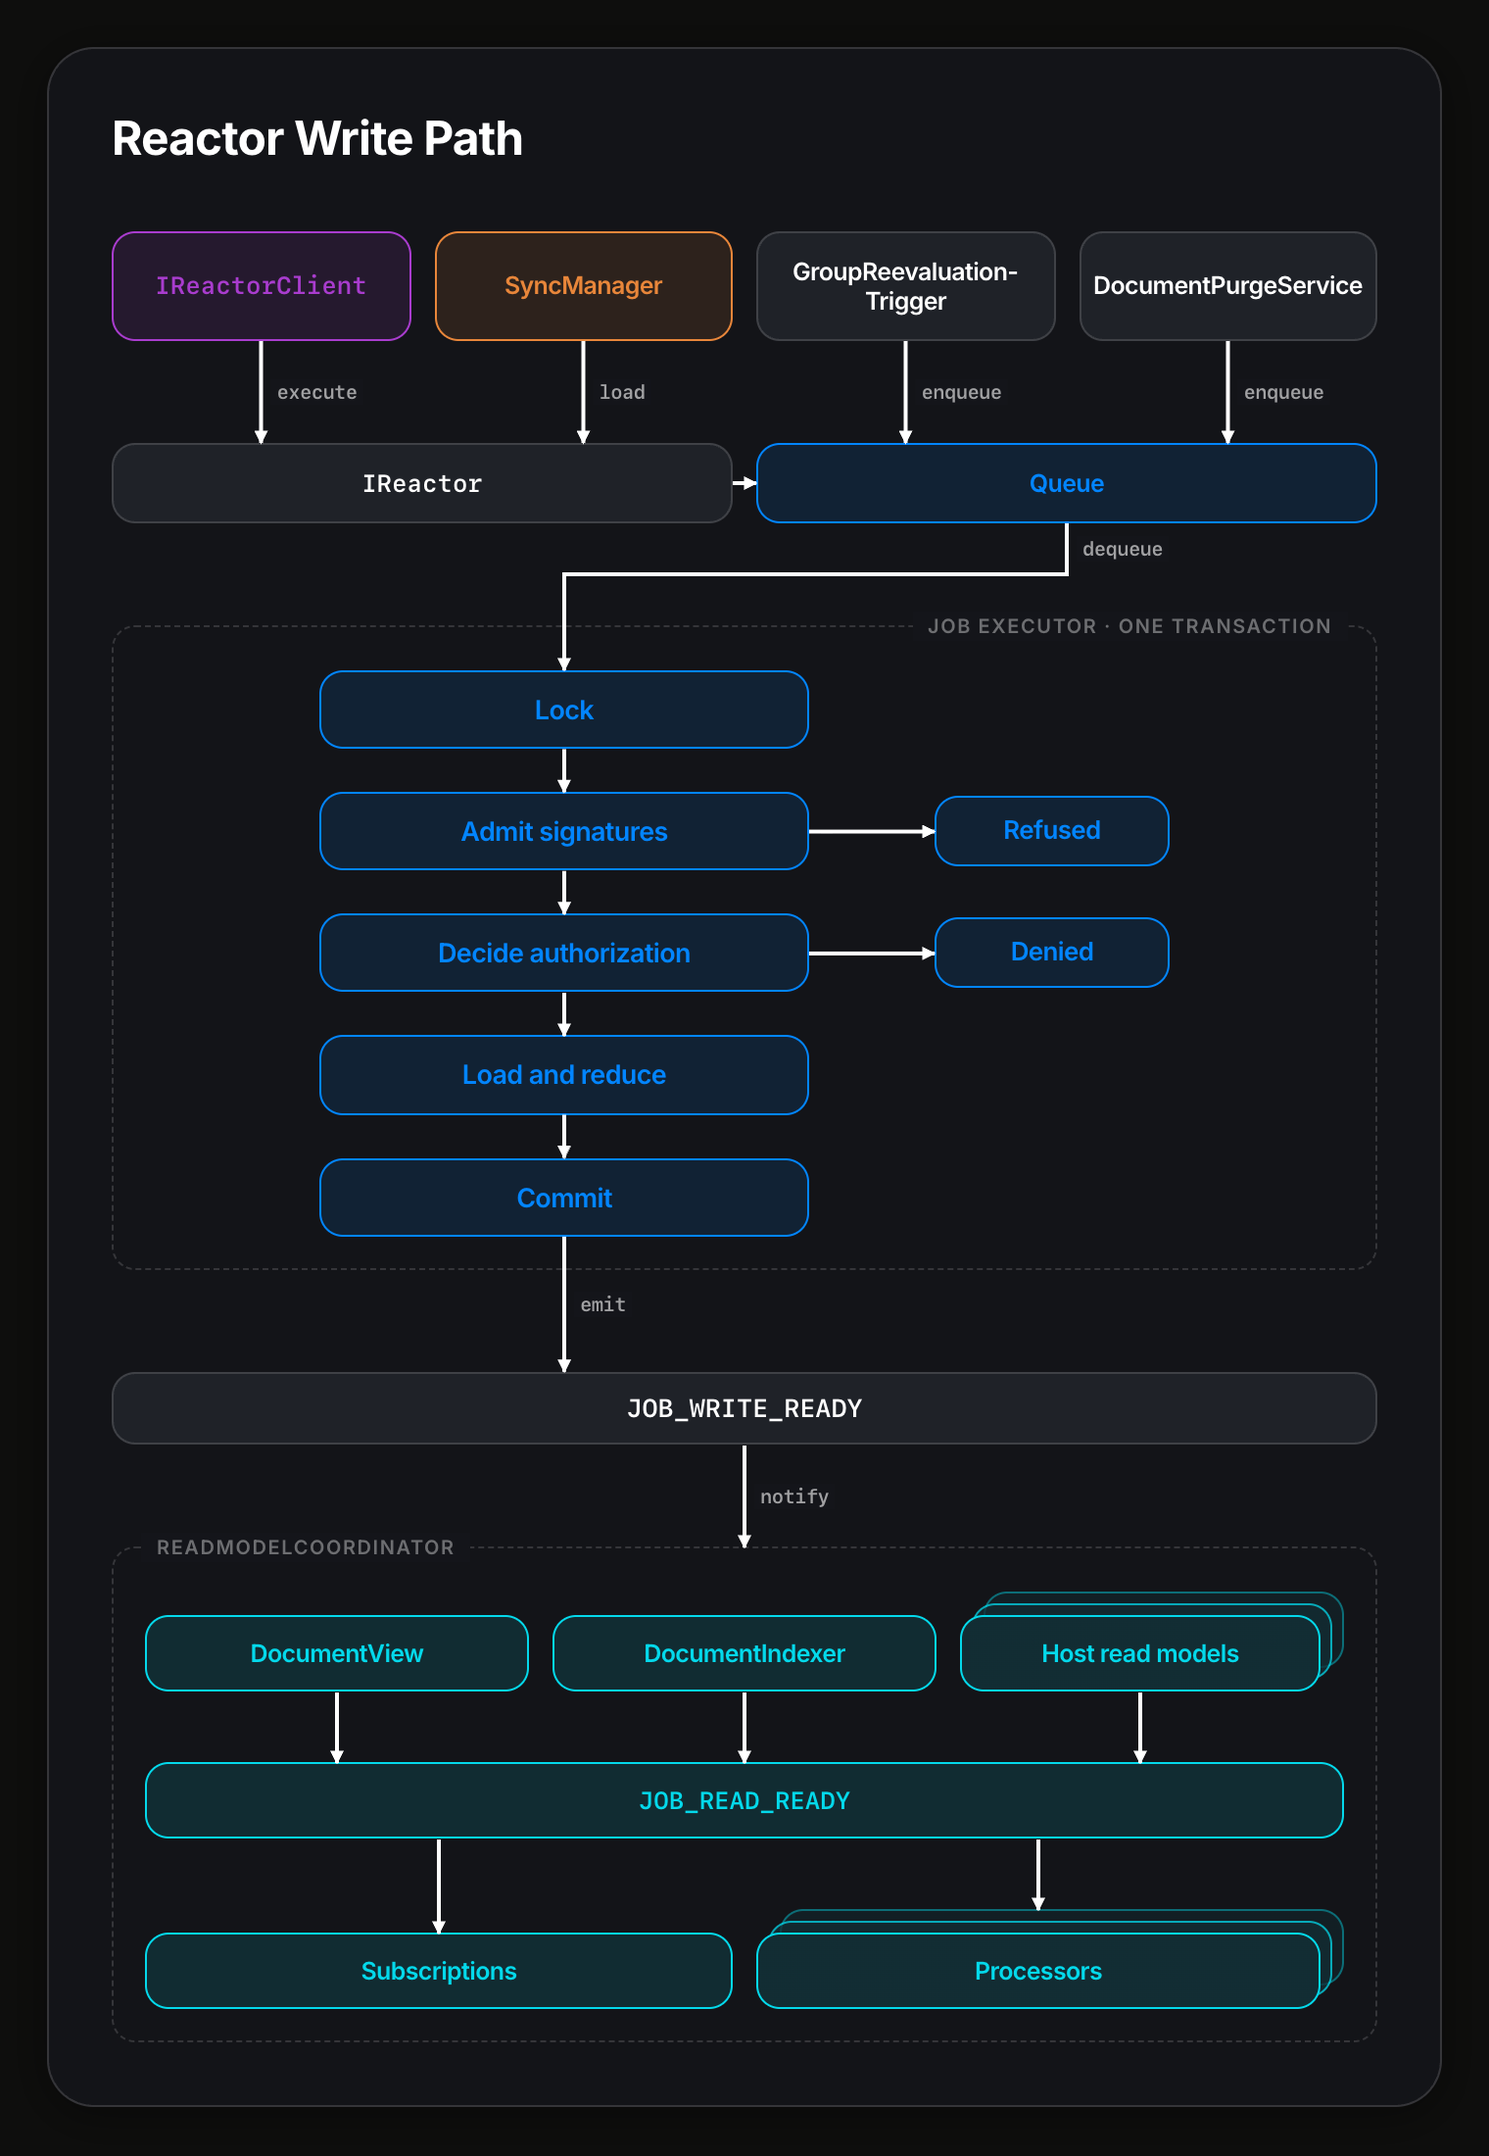
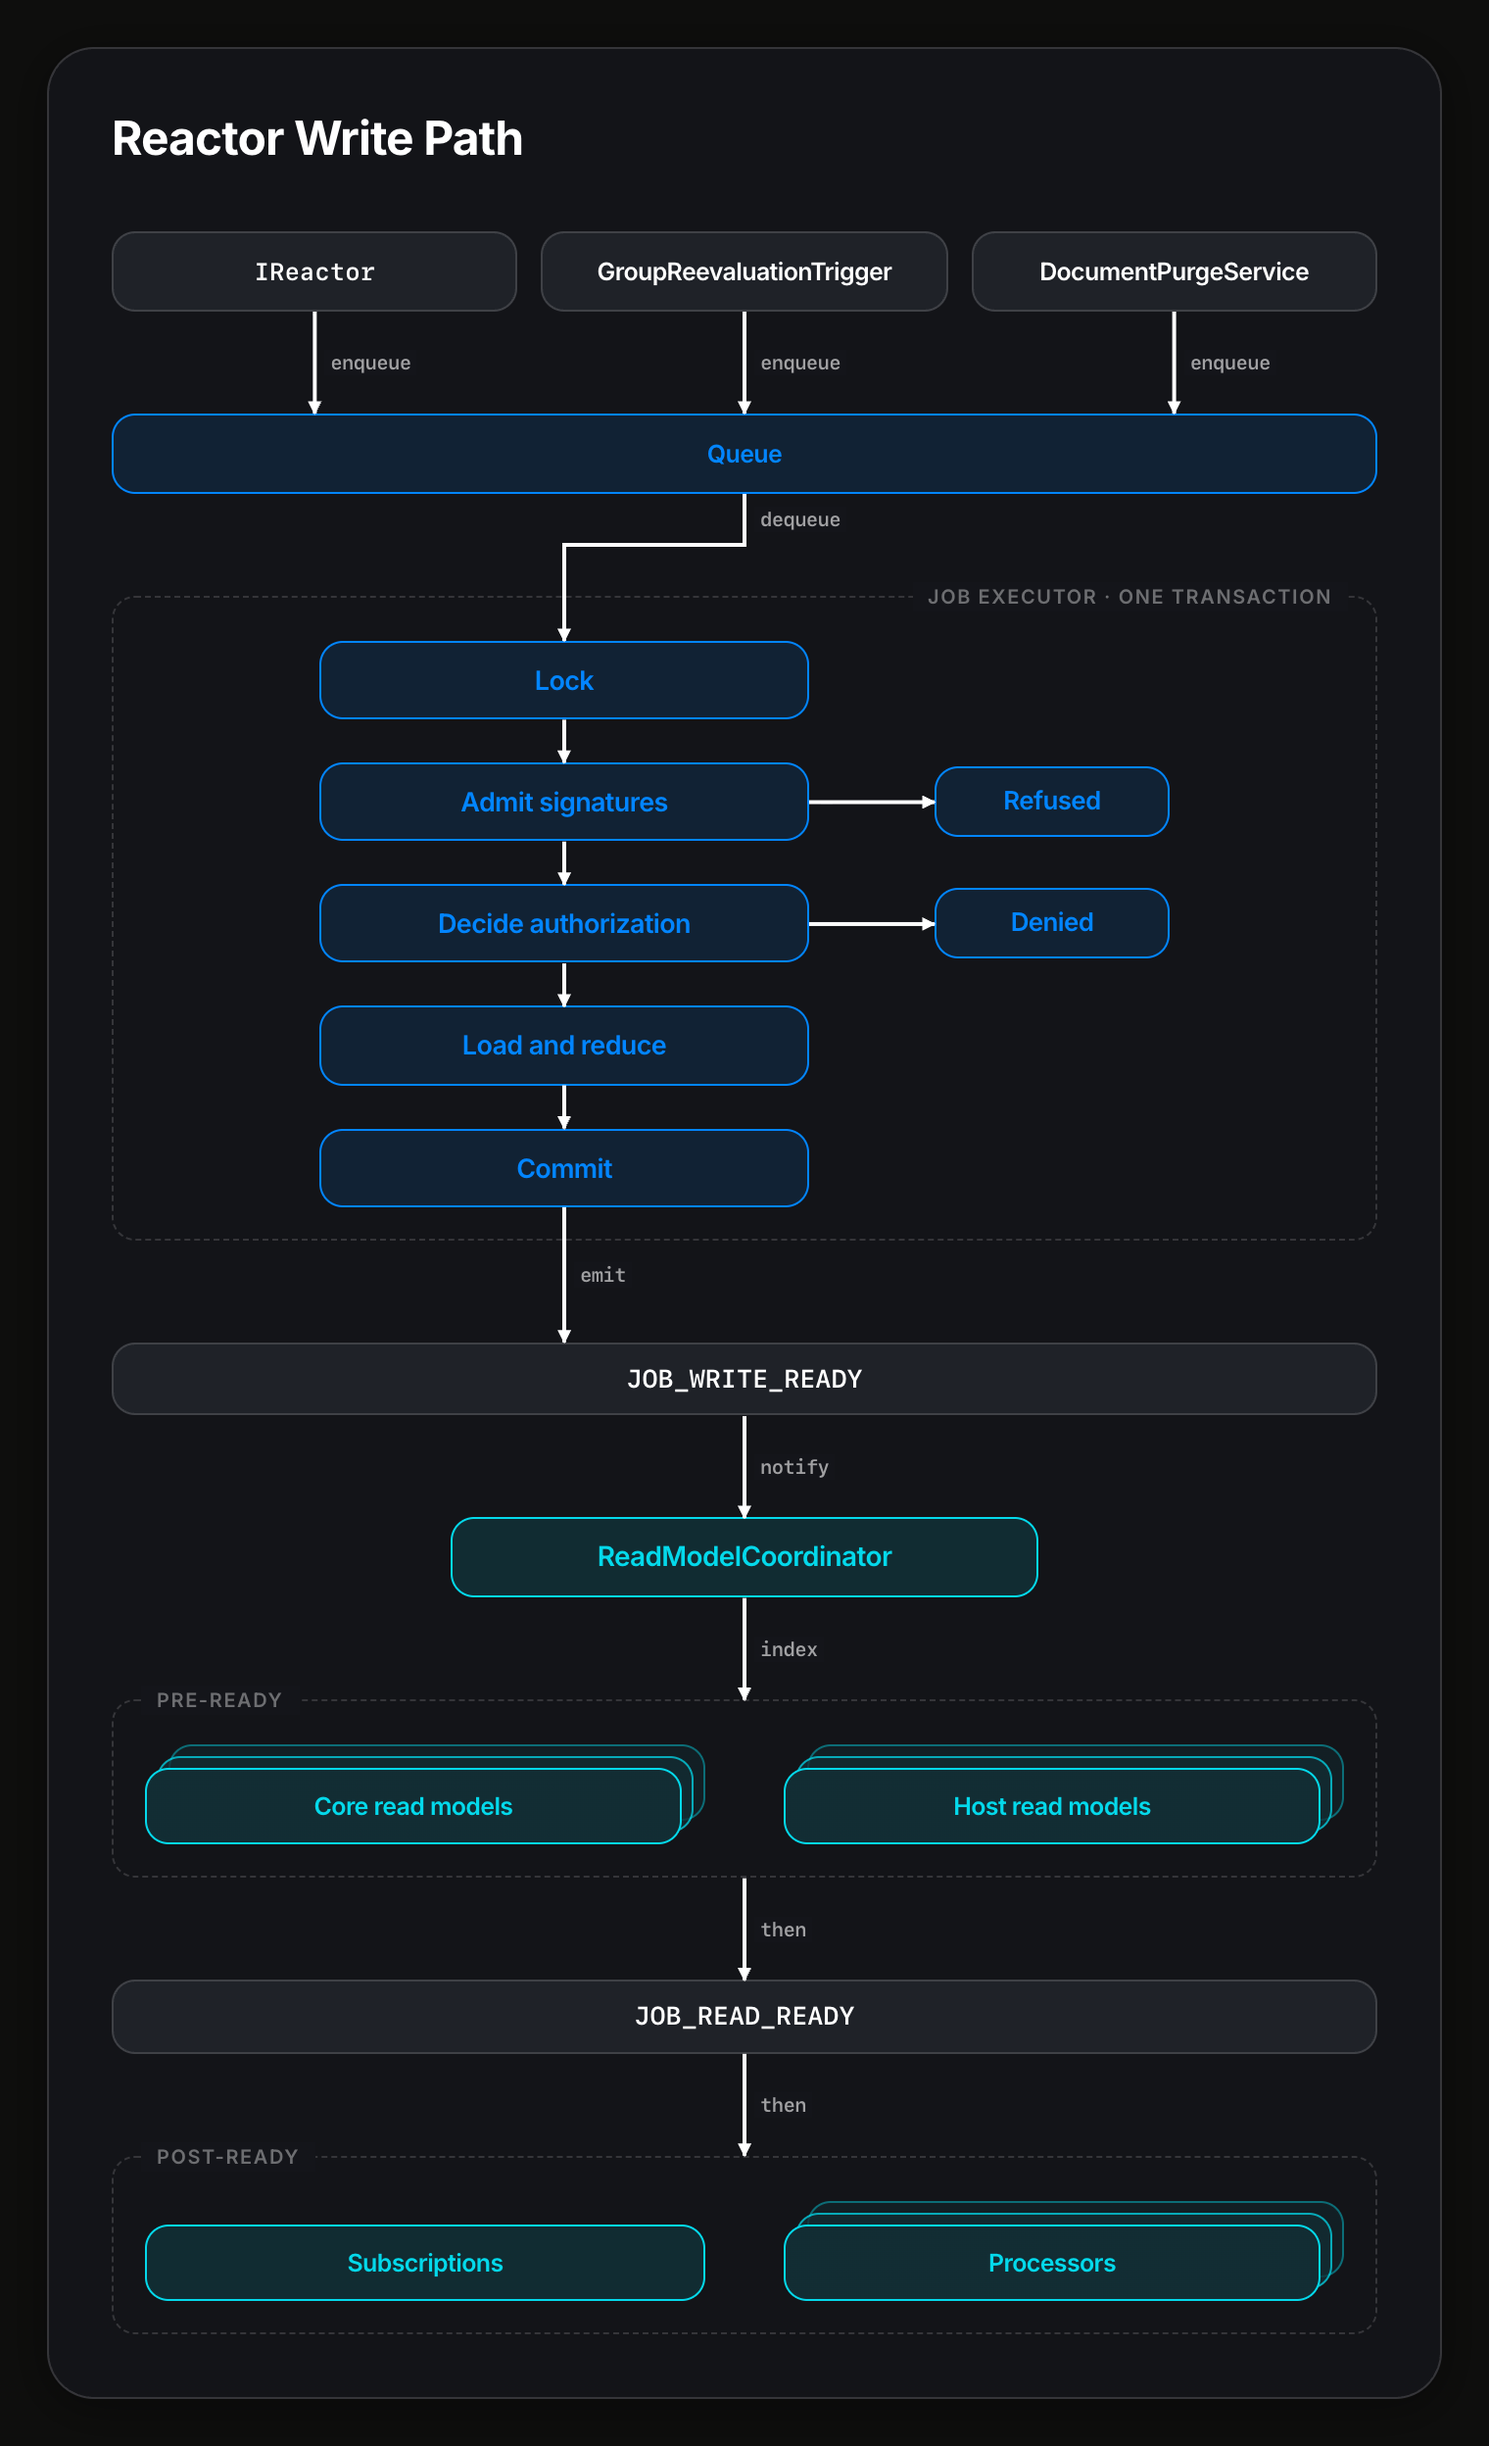
reactor write path: IReactor on top, serial read stages
Drop the client and SyncManager producers, which sit outside this
view; IReactor, GroupReevaluationTrigger and DocumentPurgeService all
enqueue into Queue below them. The read half is now one serial chain:
ReadModelCoordinator, the pre-ready stage (core and host read models),
a neutral JOB_READ_READY, then the post-ready stage. Models within a
stage carry no edges between them, since indexStage runs them together
with Promise.allSettled.

Changed region(s): [[0.0618, 0.0309, 0.9276, 0.7109], [0.0928, 0.7109, 0.9276, 0.9582]]

diff --git a/pages/reactor-write-path.html b/pages/reactor-write-path.html
@@ -141,13 +141,13 @@
     }
     .entry {
       display: grid;
-      grid-template-columns: repeat(4, 1fr);
+      grid-template-columns: repeat(3, 1fr);
       column-gap: 12px;
       row-gap: 52px;
     }
     .entry .box { padding: 12px 6px; }
     .entry .box-title { font-size: 12.5px; }
-    .entry .wide { grid-column: span 2; }
+    .entry .wide { grid-column: 1 / -1; }
 
     .exec {
       display: grid;
@@ -163,18 +163,11 @@
     .outcome .box-title { font-size: 13px; }
     .event { padding: 10px 14px; }
 
-    .readside {
-      display: grid;
-      grid-template-columns: repeat(6, 1fr);
-      column-gap: 12px;
-      row-gap: 36px;
-      align-items: end;
-    }
-    .readside .box { padding: 11px 6px; }
-    .readside .box-title { font-size: 12.5px; }
-    .readside .s2 { grid-column: span 2; }
-    .readside .s3 { grid-column: span 3; }
-    .readside .full { grid-column: 1 / -1; }
+    .stage { padding: 22px 16px 16px; }
+    .stage .row { display: grid; grid-template-columns: 1fr 1fr; column-gap: 40px; align-items: end; }
+    .stage .box { padding: 11px 6px; }
+    .stage .box-title { font-size: 12.5px; }
+    .coord { align-self: center; width: 300px; padding: 11px 14px; }
   </style>
 </head>
 <body>
@@ -182,11 +175,10 @@
     Element → source map (paths relative to packages/reactor/src in the powerhouse monorepo).
     Line numbers as of main a30562aeca. All edges share one colour.
 
-    IReactorClient ............ client/types.ts:264; execute: client/reactor-client.ts:1033 signActions → :1040 this.reactor.execute
-    SyncManager ............... sync/sync-manager.ts:2863 reactor.load, :3064 reactor.loadBatch
     GroupReevaluationTrigger .. core/group-reevaluation-trigger.ts:52; reevaluation job :166, queue.enqueue :182
     DocumentPurgeService ...... admin/document-purge-service.ts:19; purge job :51, queue.enqueue :82
-    IReactor .................. core/types.ts:138; core/reactor.ts:83 (execute :659, load :717); JOB_PENDING :1197; queue.enqueue :710, :773
+    IReactor .................. core/types.ts:138; core/reactor.ts:83 (execute :659, load :717); JOB_PENDING :1197
+      enqueue ................. core/reactor.ts:710, :773 (queue.enqueue). Its callers (the client, SyncManager) sit outside this view
     Queue ..................... queue/queue.ts:22; JOB_AVAILABLE :202; one job per document :81, :280
     dequeue ................... executor/simple-job-executor-manager.ts:88 (on JOB_AVAILABLE), :139 processNextJob
     Job executor (group) ...... executor/execution-scope.ts:78, :94-106 (one transaction); executor/simple-job-executor.ts:415
@@ -201,13 +193,18 @@
                                 :839 operationIndex.commit
     emit ...................... simple-job-executor.ts:446-461 (after commit, JOB_WRITE_READY)
     JOB_WRITE_READY ........... events/types.ts:57-68
-    notify .................... read-models/coordinator.ts:119
-    ReadModelCoordinator ...... read-models/coordinator.ts:96; chain key :353-355; pre-ready :253-254; JOB_READ_READY :272; post-ready :283-284
-      DocumentView ............ read-models/document-view.ts:63
-      DocumentIndexer ......... storage/kysely/document-indexer.ts:66
+    notify .................... read-models/coordinator.ts:119 (JOB_WRITE_READY subscription)
+    ReadModelCoordinator ...... read-models/coordinator.ts:96; one serial chain per document/scope/branch :353-355
+    index → pre-ready ......... coordinator.ts:252-264 indexStage(preReady)
+      Core read models [stack]  DocumentView (read-models/document-view.ts:63), DocumentIndexer (storage/kysely/document-indexer.ts:66)
       Host read models [stack]  core/reactor-builder.ts:473, :485, :1166-1168 (callerReadModels list)
+    then → JOB_READ_READY ..... coordinator.ts:272, emitted only after the pre-ready stage settles
+    then → post-ready ......... coordinator.ts:282-294 indexStage(postReady), after the emit
       Subscriptions ........... subs/subscription-notification-read-model.ts:20
       Processors [stack] ...... processors/processor-manager.ts:84, :89 (processorsByDrive), :741
+    Stages are serial; models within a stage are not ordered: indexStage runs them with Promise.allSettled
+    (coordinator.ts:73-82). The pre-ready list is [...callerReadModels, documentView, documentIndexer]
+    (reactor-builder.ts:1292-1296), but that order is not an execution order, so no edge joins siblings.
   -->
   <div class="frame">
     <div class="card">
@@ -218,38 +215,44 @@
           <svg class="wires" id="wires"></svg>
 
           <div class="entry">
-            <div class="box accent-purple" id="p-client"><div class="box-title mono">IReactorClient</div></div>
-            <div class="box accent-orange" id="p-sync"><div class="box-title">SyncManager</div></div>
+            <div class="box" id="reactor"><div class="box-title mono">IReactor</div></div>
             <div class="box" id="p-trigger"><div class="box-title">GroupReevaluationTrigger</div></div>
             <div class="box" id="p-purge"><div class="box-title">DocumentPurgeService</div></div>
-            <div class="box wide" id="reactor"><div class="box-title mono">IReactor</div></div>
-            <div class="box wide accent-blue" id="queue"><div class="box-title">Queue</div></div>
+            <div class="box accent-blue wide" id="queue"><div class="box-title">Queue</div></div>
           </div>
 
           <div class="group" id="exec-group">
             <span class="group-label right">Job executor · one transaction</span>
             <div class="exec">
-              <div class="box step accent-blue" id="s1"><div class="box-title">Lock</div></div>
-              <div class="box step accent-blue" id="s2"><div class="box-title">Admit signatures</div></div>
-              <div class="box outcome accent-blue" id="o2"><div class="box-title">Refused</div></div>
-              <div class="box step accent-blue" id="s3"><div class="box-title">Decide authorization</div></div>
-              <div class="box outcome accent-blue" id="o3"><div class="box-title">Denied</div></div>
-              <div class="box step accent-blue" id="s4"><div class="box-title">Load and reduce</div></div>
-              <div class="box step accent-blue" id="s5"><div class="box-title">Commit</div></div>
+              <div class="box accent-blue step" id="s1"><div class="box-title">Lock</div></div>
+              <div class="box accent-blue step" id="s2"><div class="box-title">Admit signatures</div></div>
+              <div class="box accent-blue outcome" id="o2"><div class="box-title">Refused</div></div>
+              <div class="box accent-blue step" id="s3"><div class="box-title">Decide authorization</div></div>
+              <div class="box accent-blue outcome" id="o3"><div class="box-title">Denied</div></div>
+              <div class="box accent-blue step" id="s4"><div class="box-title">Load and reduce</div></div>
+              <div class="box accent-blue step" id="s5"><div class="box-title">Commit</div></div>
             </div>
           </div>
 
           <div class="box event" id="ev-write"><div class="box-title mono">JOB_WRITE_READY</div></div>
 
-          <div class="group" id="read-group">
-            <span class="group-label">ReadModelCoordinator</span>
-            <div class="readside">
-              <div class="box s2 accent-cyan" id="r-view"><div class="box-title">DocumentView</div></div>
-              <div class="box s2 accent-cyan" id="r-index"><div class="box-title">DocumentIndexer</div></div>
-              <div class="fanout s2 accent-cyan" id="r-host"><div class="box accent-cyan"><div class="box-title">Host read models</div></div></div>
-              <div class="box event full accent-cyan" id="ev-read"><div class="box-title mono">JOB_READ_READY</div></div>
-              <div class="box s3 accent-cyan" id="r-subs"><div class="box-title">Subscriptions</div></div>
-              <div class="fanout s3 accent-cyan" id="r-proc"><div class="box accent-cyan"><div class="box-title">Processors</div></div></div>
+          <div class="box accent-cyan coord" id="coordinator"><div class="box-title">ReadModelCoordinator</div></div>
+
+          <div class="group stage" id="pre">
+            <span class="group-label">pre-ready</span>
+            <div class="row">
+              <div class="fanout accent-cyan" id="r-core"><div class="box accent-cyan"><div class="box-title">Core read models</div></div></div>
+              <div class="fanout accent-cyan" id="r-host"><div class="box accent-cyan"><div class="box-title">Host read models</div></div></div>
+            </div>
+          </div>
+
+          <div class="box event" id="ev-read"><div class="box-title mono">JOB_READ_READY</div></div>
+
+          <div class="group stage" id="post">
+            <span class="group-label">post-ready</span>
+            <div class="row">
+              <div class="box accent-cyan" id="r-subs"><div class="box-title">Subscriptions</div></div>
+              <div class="fanout accent-cyan" id="r-proc"><div class="box accent-cyan"><div class="box-title">Processors</div></div></div>
             </div>
           </div>
         </div>
@@ -264,32 +267,26 @@
     const NS = 'http://www.w3.org/2000/svg';
 
     function wires(R) {
-      const F = 12;
-      const pc = R('p-client'), ps = R('p-sync'), pt = R('p-trigger'), pp = R('p-purge');
-      const re = R('reactor'), q = R('queue'), eg = R('exec-group');
+      const re = R('reactor'), pt = R('p-trigger'), pp = R('p-purge'), q = R('queue'), eg = R('exec-group');
       const s = [1, 2, 3, 4, 5].map((i) => R('s' + i));
       const o2 = R('o2'), o3 = R('o3');
-      const ew = R('ev-write'), rg = R('read-group'), er = R('ev-read');
-      const rv = R('r-view'), ri = R('r-index'), rh = R('r-host'), rs = R('r-subs'), rp = R('r-proc');
+      const ew = R('ev-write'), co = R('coordinator'), pre = R('pre'), er = R('ev-read'), post = R('post');
       const midY = (a, b) => (a.b + b.t) / 2;
+      const x = s[0].cx;
       const out = [
-        { cls: 'w-call', pts: [[pc.cx, pc.b], [pc.cx, re.t]], label: 'execute', seg: 0 },
-        { cls: 'w-call', pts: [[ps.cx, ps.b], [ps.cx, re.t]], label: 'load', seg: 0 },
+        { cls: 'w-call', pts: [[re.cx, re.b], [re.cx, q.t]], label: 'enqueue', seg: 0 },
         { cls: 'w-call', pts: [[pt.cx, pt.b], [pt.cx, q.t]], label: 'enqueue', seg: 0 },
         { cls: 'w-call', pts: [[pp.cx, pp.b], [pp.cx, q.t]], label: 'enqueue', seg: 0 },
-        { cls: 'w-call', pts: [[re.r, re.cy], [q.l, re.cy]], label: '', seg: 0 },
-        { cls: 'w-call', pts: [[q.cx, q.b], [q.cx, midY(q, eg)], [s[0].cx, midY(q, eg)], [s[0].cx, s[0].t]], label: 'dequeue', seg: 0 },
+        { cls: 'w-call', pts: [[q.cx, q.b], [q.cx, midY(q, eg)], [x, midY(q, eg)], [x, s[0].t]], label: 'dequeue', seg: 0 },
         { cls: 'w-call', pts: [[s[1].r, s[1].cy], [o2.l, s[1].cy]], label: '', seg: 0 },
         { cls: 'w-call', pts: [[s[2].r, s[2].cy], [o3.l, s[2].cy]], label: '', seg: 0 },
-        { cls: 'w-call', pts: [[s[4].cx, s[4].b], [s[4].cx, ew.t]], label: 'emit', seg: 0 },
-        { cls: 'w-call', pts: [[ew.cx, ew.b], [ew.cx, rg.t]], label: 'notify', seg: 0 },
-        { cls: 'w-call', pts: [[rv.cx, rv.b], [rv.cx, er.t]], label: '', seg: 0 },
-        { cls: 'w-call', pts: [[ri.cx, ri.b], [ri.cx, er.t]], label: '', seg: 0 },
-        { cls: 'w-call', pts: [[rh.cx, rh.b], [rh.cx, er.t]], label: '', seg: 0 },
-        { cls: 'w-call', pts: [[rs.cx, er.b], [rs.cx, rs.t]], label: '', seg: 0 },
-        { cls: 'w-call', pts: [[rp.cx, er.b], [rp.cx, rp.t - F]], label: '', seg: 0 },
+        { cls: 'w-call', pts: [[x, s[4].b], [x, ew.t]], label: 'emit', seg: 0 },
+        { cls: 'w-call', pts: [[co.cx, ew.b], [co.cx, co.t]], label: 'notify', seg: 0 },
+        { cls: 'w-call', pts: [[co.cx, co.b], [co.cx, pre.t]], label: 'index', seg: 0 },
+        { cls: 'w-call', pts: [[co.cx, pre.b], [co.cx, er.t]], label: 'then', seg: 0 },
+        { cls: 'w-call', pts: [[co.cx, er.b], [co.cx, post.t]], label: 'then', seg: 0 },
       ];
-      for (let i = 0; i < 4; i++) out.push({ cls: 'w-call', pts: [[s[i].cx, s[i].b], [s[i].cx, s[i + 1].t]], label: '', seg: 0 });
+      for (let i = 0; i < 4; i++) out.push({ cls: 'w-call', pts: [[x, s[i].b], [x, s[i + 1].t]], label: '', seg: 0 });
       return out;
     }
 
